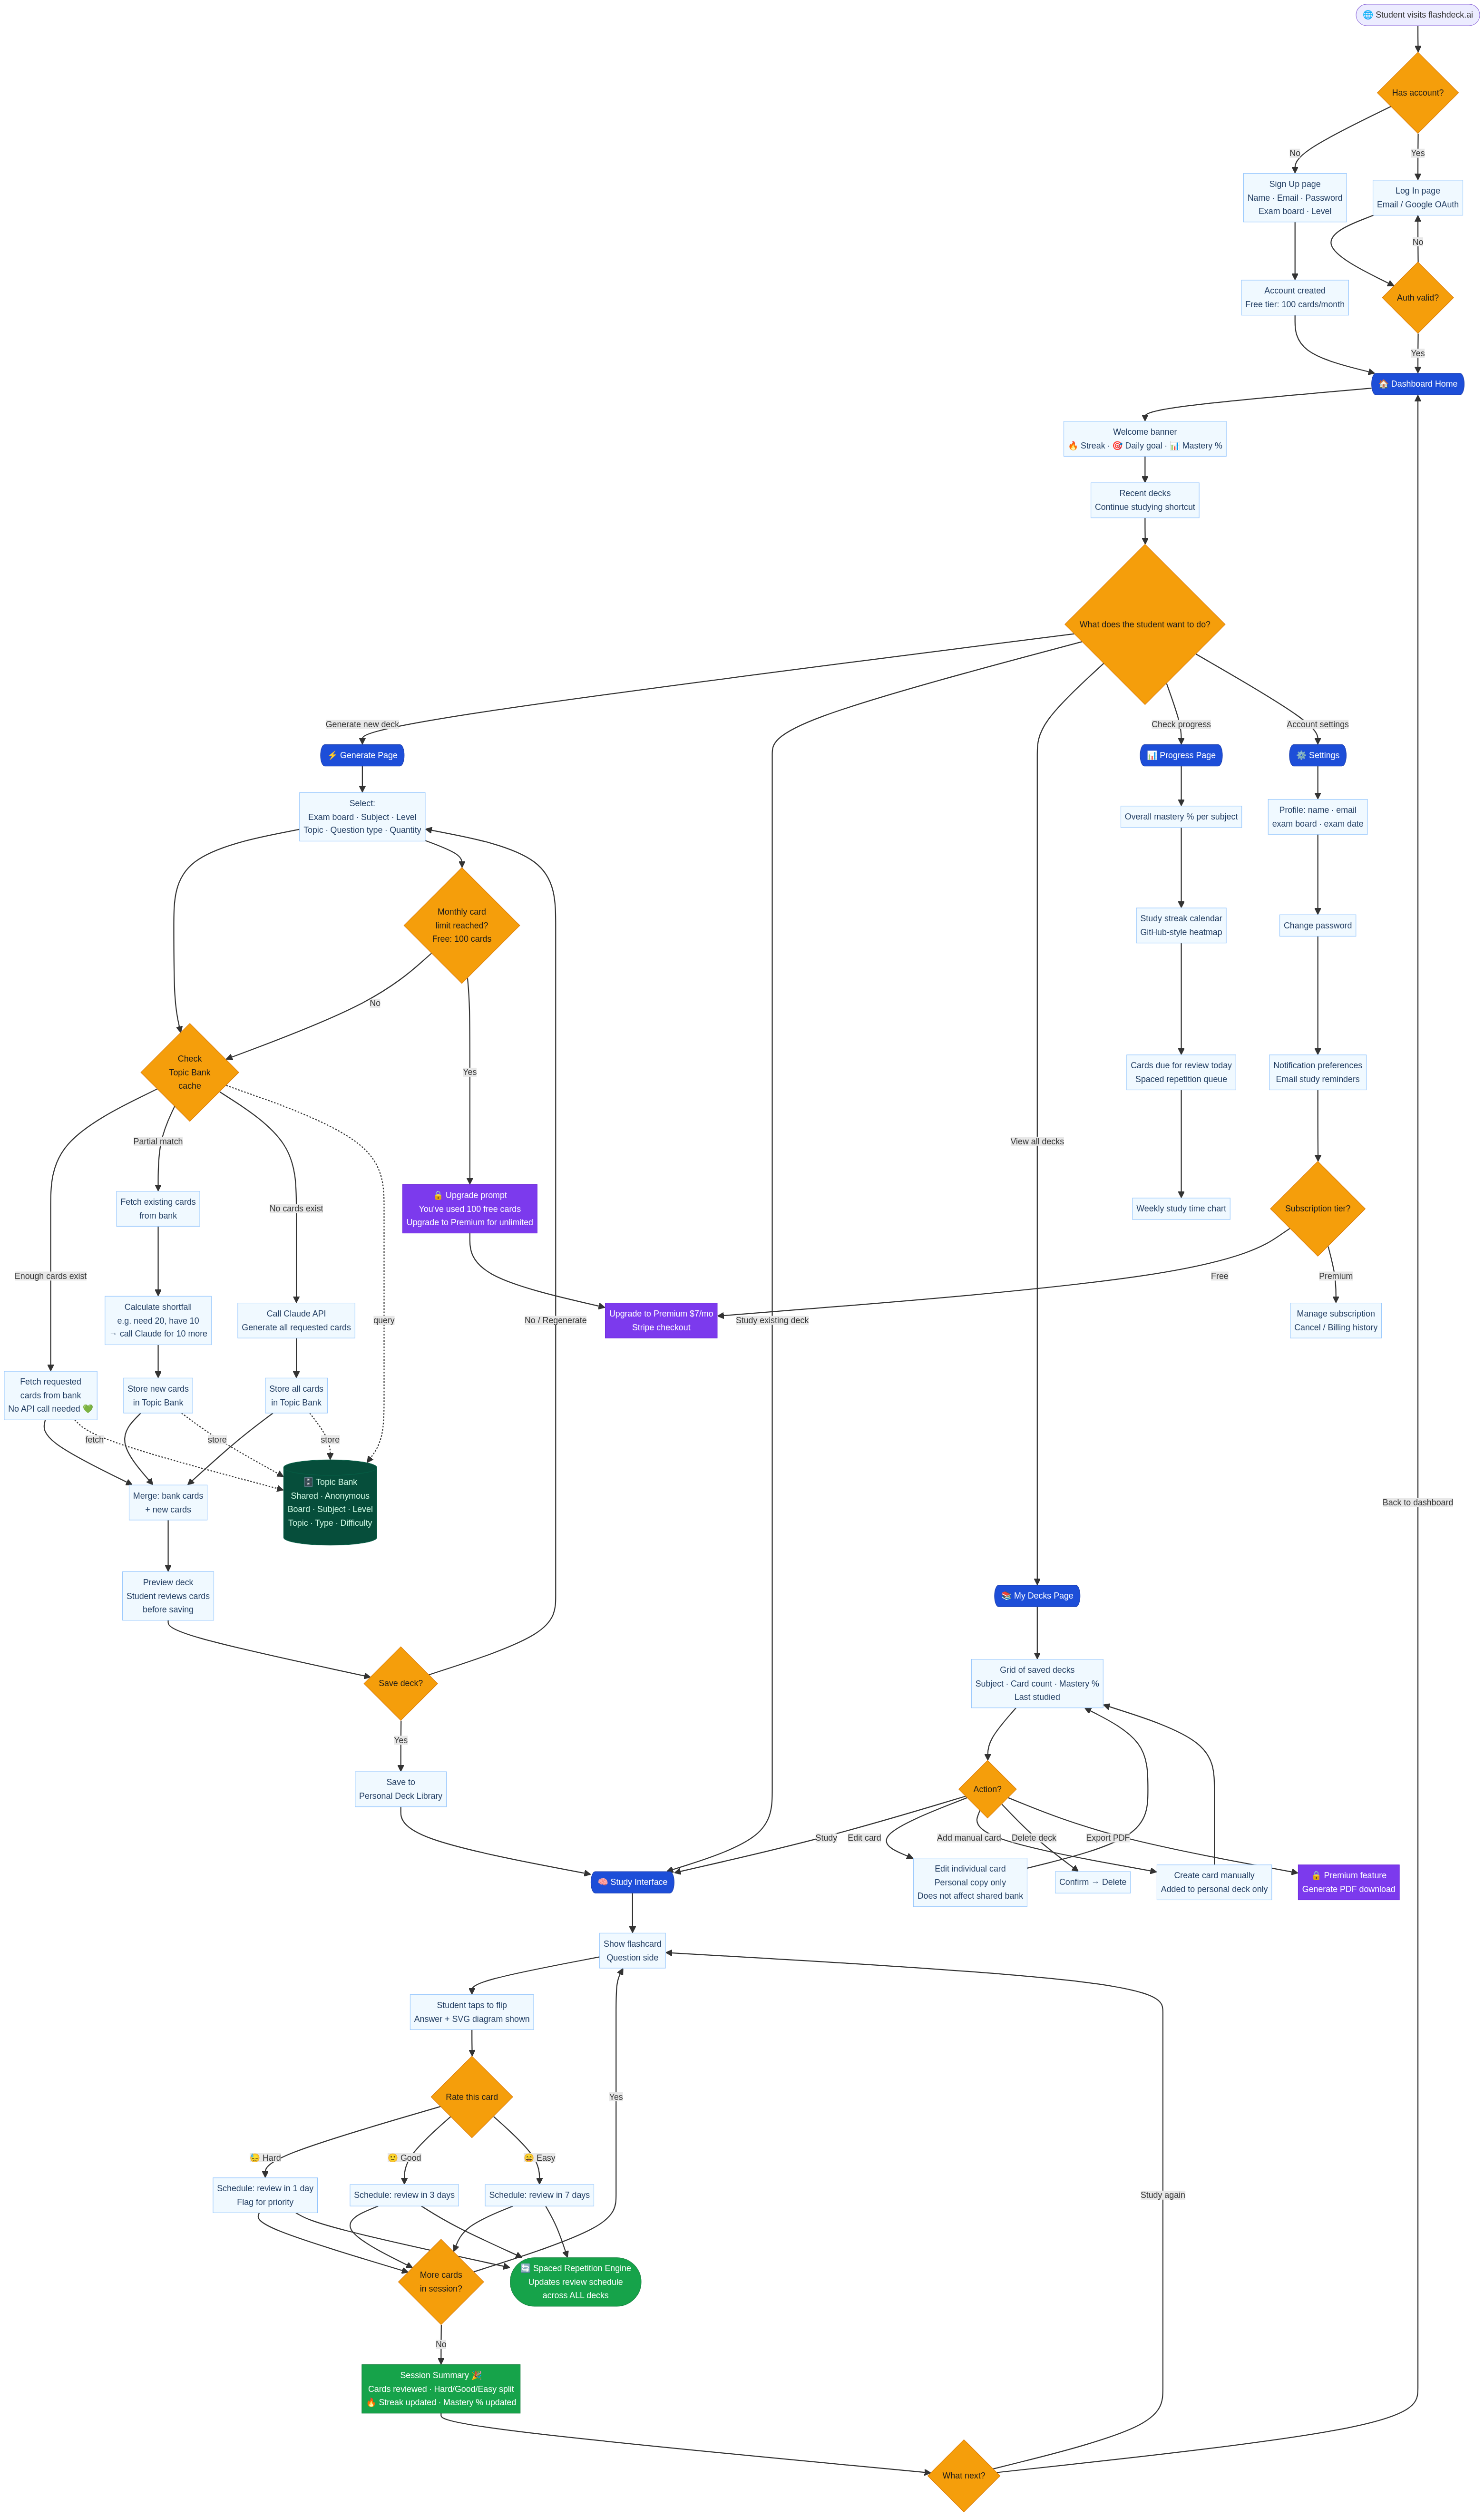
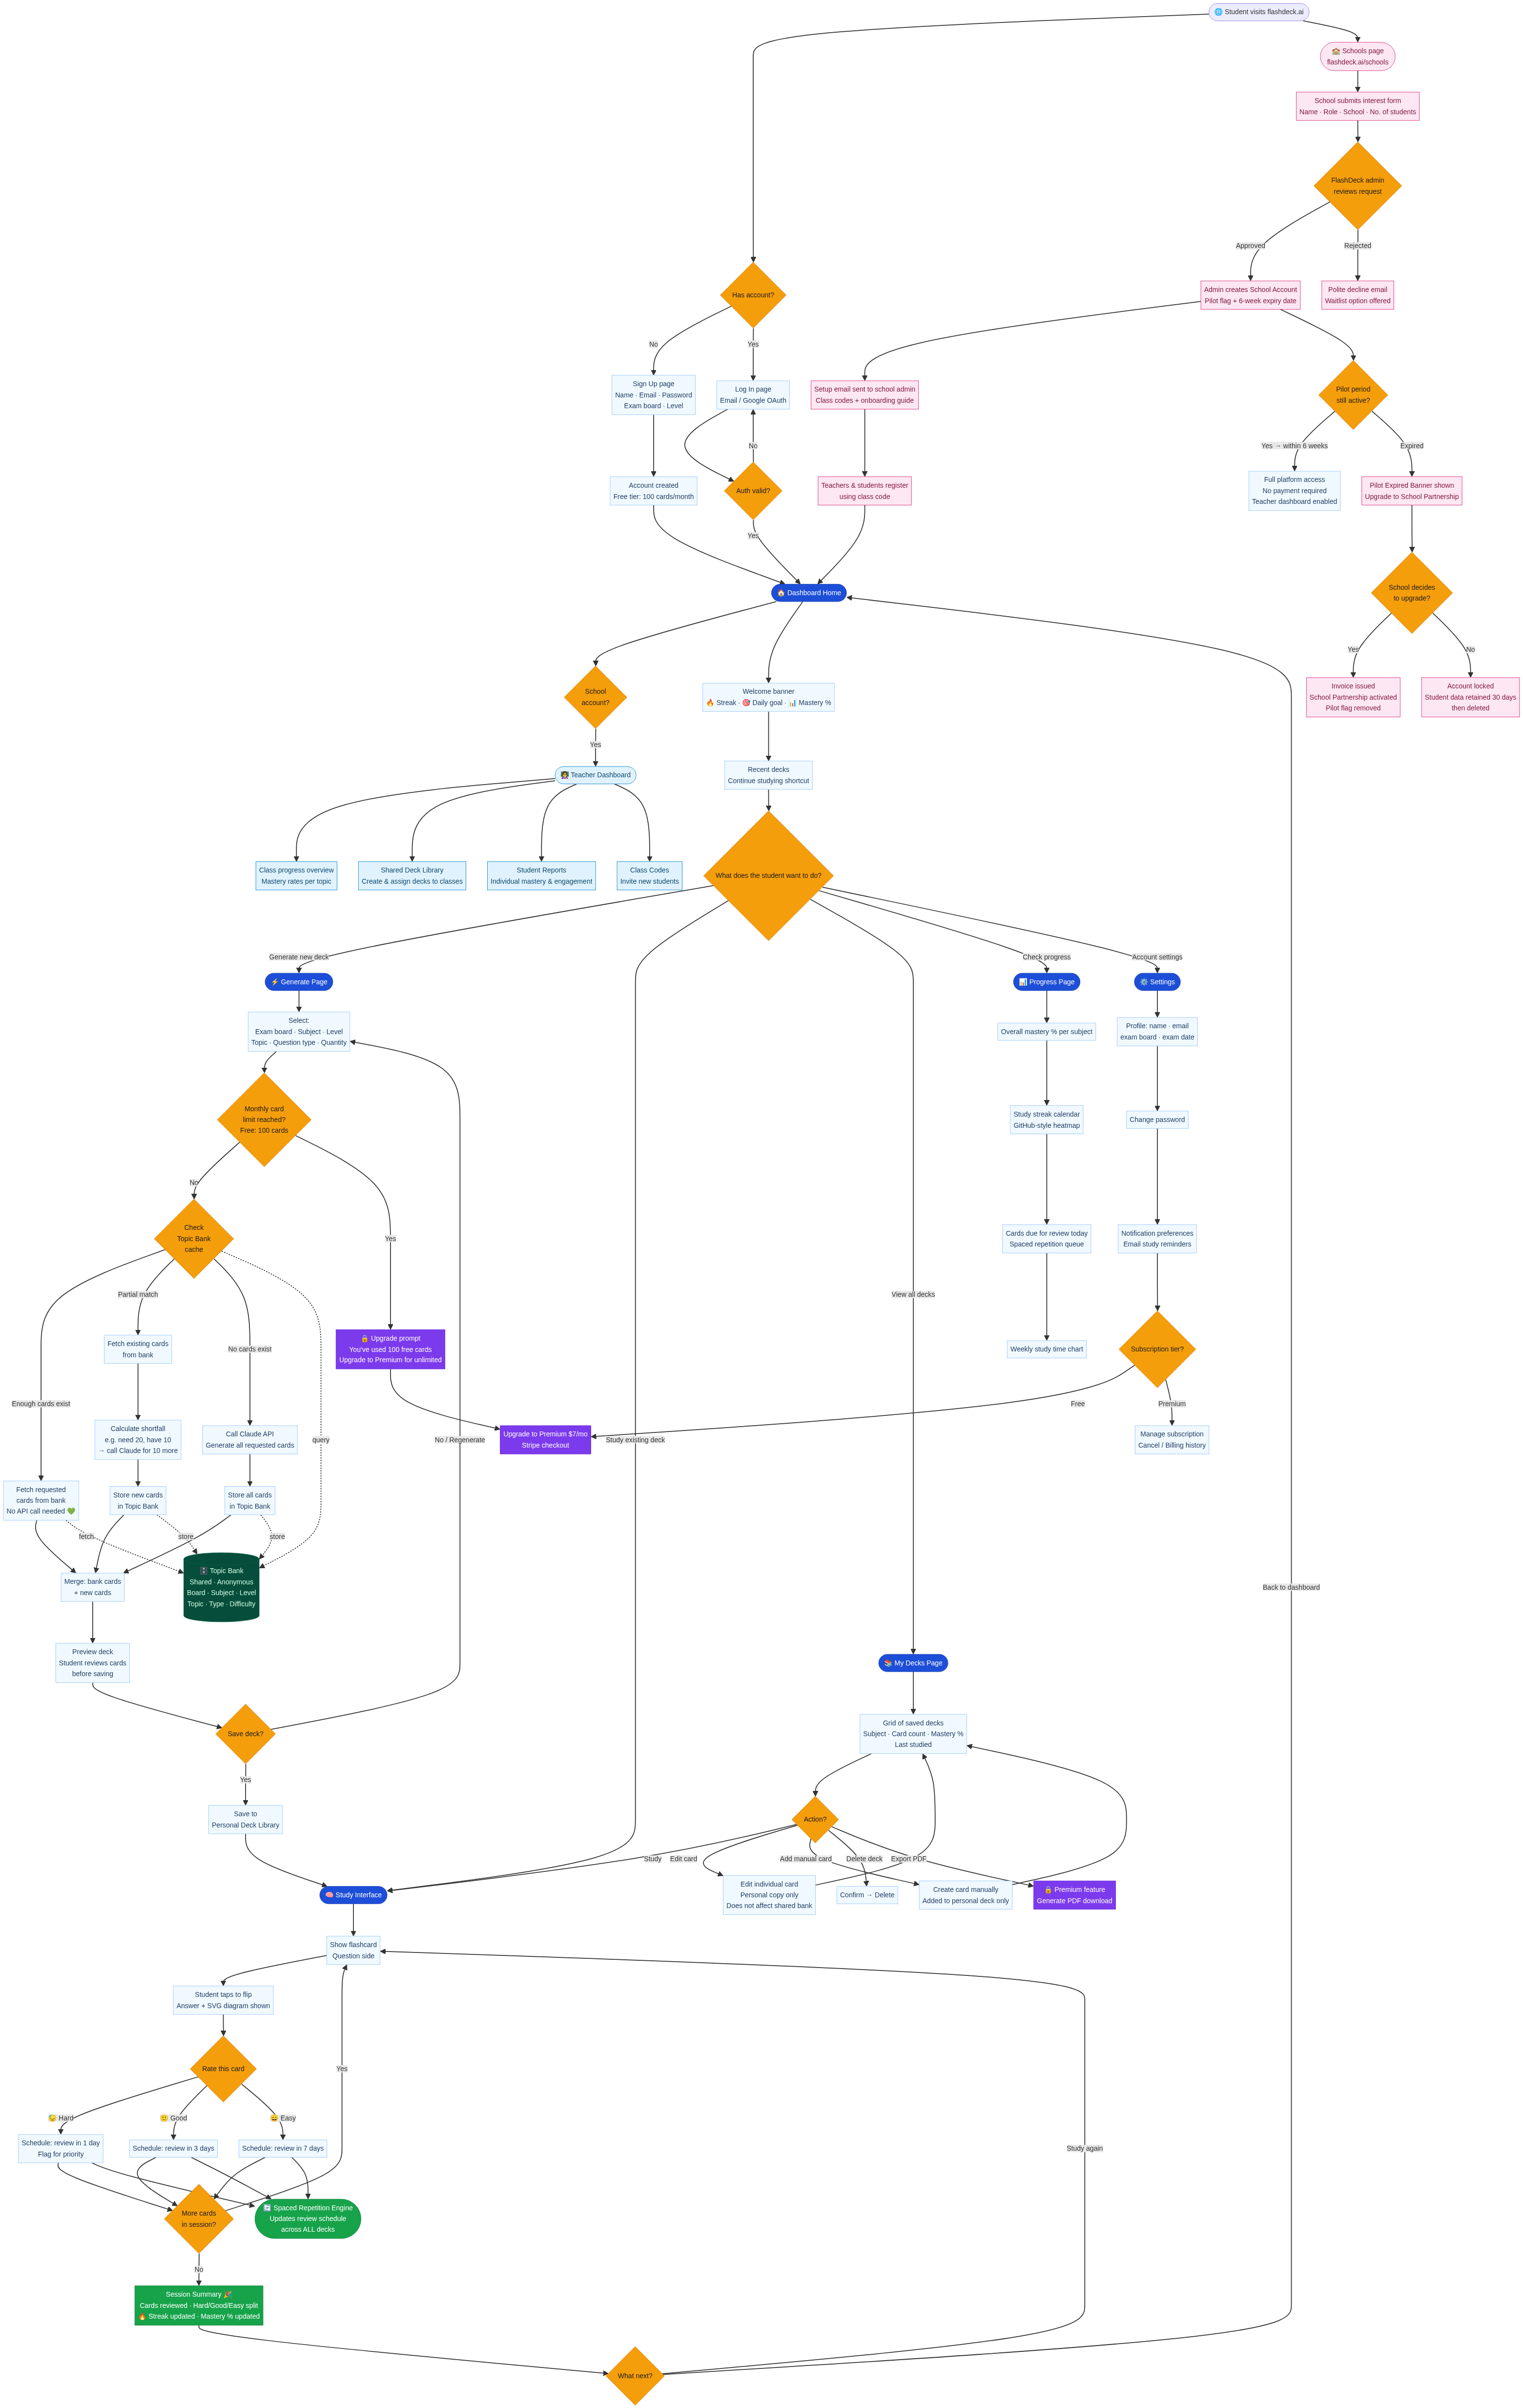
Update flowchart with school pilot flow + add master task list

diff --git a/FLASHDECK_TASK_LIST.md b/FLASHDECK_TASK_LIST.md
@@ -1,0 +1,197 @@
+# FlashDeck.AI — Master Task List
+
+> Last updated: May 2026  
+> Legend: ✅ Done · 🔄 In Progress · ⬜ To Do · 🔒 Blocked (dependency)
+
+---
+
+## 1. Business & Strategy
+
+| # | Task | Status | Notes |
+|---|---|---|---|
+| 1.1 | Business case document | ✅ Done | Pitched to Cutlass Group (Humayun Shahzad) |
+| 1.2 | Technical specification document | ✅ Done | Next.js + Supabase + Claude + Stripe stack |
+| 1.3 | Business plan V3 | ✅ Done | Earlier version; superseded by business case |
+| 1.4 | Claude API cost research | ✅ Done | Haiku confirmed as best cost/quality model |
+| 1.5 | School pricing research | ✅ Done | Benchmarked vs Quizlet, Seneca, Tassomai |
+| 1.6 | School pitch deck | ✅ Done | 10-slide deck, dual £/$ pricing, pilot offer |
+| 1.7 | Define school pilot programme terms | ⬜ To Do | Duration, eligibility, what counts as success |
+| 1.8 | Define school partnership contract | ⬜ To Do | Legal agreement for paid school licences |
+| 1.9 | Identify first 10 target schools | ⬜ To Do | UK, Pakistan, Nigeria, Middle East |
+| 1.10 | Investor / partner update for Cutlass Group | ⬜ To Do | Progress update once MVP is live |
+
+---
+
+## 2. Infrastructure & DevOps
+
+| # | Task | Status | Notes |
+|---|---|---|---|
+| 2.1 | Domain registration — flashdeck.ai | ✅ Done | Registered via Name.com |
+| 2.2 | DNS configuration at Name.com | ✅ Done | A record + CNAME pointing to Vercel |
+| 2.3 | GitHub account — FlashdeckAI | ✅ Done | github.com/FlashdeckAI |
+| 2.4 | GitHub repository — flashdeck-ai | ✅ Done | Private repo, connected to Vercel |
+| 2.5 | Vercel account setup | ✅ Done | Connected to GitHub for auto-deploy |
+| 2.6 | Vercel deployment — flashdeck-ai | ✅ Done | Auto-deploys on every GitHub push |
+| 2.7 | Custom domain connected — flashdeck.ai | ✅ Done | Live at https://www.flashdeck.ai |
+| 2.8 | SSL certificate | ✅ Done | Auto-provisioned by Vercel |
+| 2.9 | Supabase project setup | ⬜ To Do | Create project, get API keys |
+| 2.10 | Supabase database schema | ⬜ To Do | Users, decks, cards, topic bank, schools tables |
+| 2.11 | Anthropic (Claude) API account | 🔄 In Progress | Subscription pending — due tomorrow |
+| 2.12 | Stripe account setup | ⬜ To Do | For $7/month individual + school licences |
+| 2.13 | Environment variables in Vercel | 🔒 Blocked | Needs Supabase + Stripe + Claude keys first |
+| 2.14 | Email provider setup (transactional) | ⬜ To Do | For verification, reminders, pilot invites (Resend or SendGrid) |
+
+---
+
+## 3. Marketing Website (flashdeck.ai)
+
+| # | Task | Status | Notes |
+|---|---|---|---|
+| 3.1 | Landing page — full design & build | ✅ Done | 14 sections, fully responsive |
+| 3.2 | Hero carousel (3 images) | ✅ Done | Auto-rotating, dot indicators |
+| 3.3 | Interactive demo section | ✅ Done | Pre-built card data for 4 subjects |
+| 3.4 | Pricing section (monthly/annual toggle) | ✅ Done | Free / Premium / School tiers |
+| 3.5 | Audience panels (UK, IGCSE, Teachers) | ✅ Done | Product mockup images, corrected copy |
+| 3.6 | Testimonials section | ✅ Done | 2 real + 1 placeholder |
+| 3.7 | FAQ section | ✅ Done | 6 accordion items |
+| 3.8 | Sustainability section | ✅ Done | Eco stats and pledge |
+| 3.9 | Log In page | ✅ Done | Email + Google OAuth UI, validation |
+| 3.10 | Sign Up page | ✅ Done | 4 exam boards, password strength meter |
+| 3.11 | Schools landing page (/schools) | ⬜ To Do | Pilot interest form, school-specific pitch |
+| 3.12 | Blog / SEO content | ⬜ To Do | Post-MVP — drives organic student traffic |
+| 3.13 | Cookie consent banner | ⬜ To Do | Required for GDPR compliance |
+| 3.14 | Privacy Policy page | ⬜ To Do | Required before public launch |
+| 3.15 | Terms of Service page | ⬜ To Do | Required before public launch |
+
+---
+
+## 4. Application — Authentication
+
+| # | Task | Status | Notes |
+|---|---|---|---|
+| 4.1 | Supabase email/password sign-up | ⬜ To Do | Wire up Sign Up page to Supabase |
+| 4.2 | Email verification flow | ⬜ To Do | Confirmation email + redirect |
+| 4.3 | Google OAuth sign-in | ⬜ To Do | Supabase Google provider config |
+| 4.4 | Log In flow | ⬜ To Do | Wire up Log In page to Supabase |
+| 4.5 | Forgot password / reset flow | ⬜ To Do | Email reset link via Supabase |
+| 4.6 | Session persistence (30-day) | ⬜ To Do | "Keep me logged in" checkbox |
+| 4.7 | Protected routes (redirect if not logged in) | ⬜ To Do | Dashboard, Generate, Study all require auth |
+| 4.8 | School class code registration | ⬜ To Do | Students join school account via code |
+
+---
+
+## 5. Application — Dashboard & Core UI
+
+| # | Task | Status | Notes |
+|---|---|---|---|
+| 5.1 | Navigation shell (sidebar + top bar) | ⬜ To Do | Persistent across all logged-in pages |
+| 5.2 | Dashboard home page | ⬜ To Do | Welcome, streak, stats, recent decks, daily goal |
+| 5.3 | Generate deck page | ⬜ To Do | Board / subject / level / topic / type / quantity selectors |
+| 5.4 | My Decks page | ⬜ To Do | Grid of saved decks, mastery %, last studied |
+| 5.5 | Deck viewer / preview | ⬜ To Do | Review cards before saving |
+| 5.6 | Study interface | ⬜ To Do | Flip card, Hard/Good/Easy rating |
+| 5.7 | Session summary screen | ⬜ To Do | Score, streak update, mastery % |
+| 5.8 | Progress page | ⬜ To Do | Heatmap, subject breakdown, mastery rings |
+| 5.9 | Settings page | ⬜ To Do | Profile, password, notifications, subscription |
+| 5.10 | Mobile responsive layout | ⬜ To Do | Bottom tab bar on mobile |
+
+---
+
+## 6. Application — AI & Topic Bank
+
+| # | Task | Status | Notes |
+|---|---|---|---|
+| 6.1 | Claude API integration | 🔒 Blocked | Needs API key (due tomorrow) |
+| 6.2 | Prompt engineering for flashcard generation | ⬜ To Do | Per question type: definition, T/F, short answer, diagram, MCQ, calculation |
+| 6.3 | Topic Bank database table | ⬜ To Do | Board · Subject · Level · Topic · Type · Cards |
+| 6.4 | Cache-check logic (query Topic Bank first) | ⬜ To Do | Return existing cards if enough exist |
+| 6.5 | Top-up logic (partial cache hit) | ⬜ To Do | Generate only the shortfall, merge with cached |
+| 6.6 | Store new cards in Topic Bank | ⬜ To Do | Every new generation adds to shared pool |
+| 6.7 | SVG diagram generation for science | ⬜ To Do | Cell biology, circuits, force diagrams, molecules |
+| 6.8 | Question type selector in Generate UI | ⬜ To Do | Definition · True/False · Short Answer · Diagram · MCQ · Calculation |
+
+---
+
+## 7. Application — Spaced Repetition
+
+| # | Task | Status | Notes |
+|---|---|---|---|
+| 7.1 | Card rating system (Hard / Good / Easy) | ⬜ To Do | Stored per card per user |
+| 7.2 | Review schedule calculation | ⬜ To Do | Hard=1 day, Good=3 days, Easy=7 days (SM-2 algorithm) |
+| 7.3 | Due-today queue | ⬜ To Do | Surface cards due for review on dashboard |
+| 7.4 | Exam-date aware scheduling | ⬜ To Do | Compress schedule as exam date approaches |
+| 7.5 | Mastery % calculation per topic | ⬜ To Do | Based on Easy ratings over time |
+
+---
+
+## 8. Application — Monetisation
+
+| # | Task | Status | Notes |
+|---|---|---|---|
+| 8.1 | Free tier enforcement (100 cards/month) | ⬜ To Do | Counter in Supabase, checked on generate |
+| 8.2 | Stripe individual subscription ($7/month) | ⬜ To Do | Checkout, webhook, subscription status |
+| 8.3 | Premium feature gates (PDF export, unlimited) | ⬜ To Do | Check subscription status before allowing |
+| 8.4 | Annual discount (e.g. 2 months free) | ⬜ To Do | Toggle on pricing page already built |
+| 8.5 | School pilot account type | ⬜ To Do | Pilot flag + expiry date in Supabase |
+| 8.6 | School pilot interest form (/schools) | ⬜ To Do | Collects school details, triggers admin email |
+| 8.7 | Admin panel — approve/reject pilot requests | ⬜ To Do | Simple admin UI for Zulfi to manage pilots |
+| 8.8 | Pilot expiry flow | ⬜ To Do | Banner shown, account locked after grace period |
+| 8.9 | School partnership upgrade flow | ⬜ To Do | Invoice generation or Stripe school licence |
+| 8.10 | School licence tiers (Starter/Growth/Whole School) | ⬜ To Do | As per pitch deck pricing |
+
+---
+
+## 9. Application — Teacher & School Features
+
+| # | Task | Status | Notes |
+|---|---|---|---|
+| 9.1 | Teacher dashboard | ⬜ To Do | Class progress, mastery rates, engagement |
+| 9.2 | Shared deck library | ⬜ To Do | Teachers create and assign decks to classes |
+| 9.3 | Student reports | ⬜ To Do | Individual mastery per topic |
+| 9.4 | Class code system | ⬜ To Do | Generate codes, students join class |
+| 9.5 | Multi-teacher support per school | ⬜ To Do | Growth and Whole School tiers |
+
+---
+
+## 10. Compliance & Legal
+
+| # | Task | Status | Notes |
+|---|---|---|---|
+| 10.1 | Privacy Policy | ⬜ To Do | UK GDPR compliant, covers student data |
+| 10.2 | Terms of Service | ⬜ To Do | User agreement, acceptable use |
+| 10.3 | Cookie Policy + consent banner | ⬜ To Do | Required for EU/UK visitors |
+| 10.4 | COPPA / GDPR-K compliance (under-13s) | ⬜ To Do | Age gate or parental consent for younger students |
+| 10.5 | Data retention policy | ⬜ To Do | How long student data is kept |
+| 10.6 | School data processing agreement (DPA) | ⬜ To Do | Required by UK schools before signing |
+
+---
+
+## 11. Testing & Launch
+
+| # | Task | Status | Notes |
+|---|---|---|---|
+| 11.1 | Internal testing (Zulfi + team) | ⬜ To Do | Full user journey end-to-end |
+| 11.2 | Beta invite — 10–20 students | ⬜ To Do | Gather real usage feedback |
+| 11.3 | School pilot — first 2–3 schools | ⬜ To Do | Target post-exam season (end of June) |
+| 11.4 | Performance testing | ⬜ To Do | Load test Claude API + Supabase queries |
+| 11.5 | Cross-browser / cross-device testing | ⬜ To Do | Chrome, Safari, Firefox; iOS, Android |
+| 11.6 | Public launch | ⬜ To Do | Announce on LinkedIn, ProductHunt, etc. |
+
+---
+
+## Summary
+
+| Category | Done | In Progress | To Do | Total |
+|---|---|---|---|---|
+| Business & Strategy | 6 | 0 | 4 | 10 |
+| Infrastructure & DevOps | 8 | 1 | 5 | 14 |
+| Marketing Website | 11 | 0 | 4 | 15 |
+| Authentication | 0 | 0 | 8 | 8 |
+| Dashboard & Core UI | 0 | 0 | 10 | 10 |
+| AI & Topic Bank | 0 | 0 | 8 | 8 |
+| Spaced Repetition | 0 | 0 | 5 | 5 |
+| Monetisation | 0 | 0 | 10 | 10 |
+| Teacher & School Features | 0 | 0 | 5 | 5 |
+| Compliance & Legal | 0 | 0 | 6 | 6 |
+| Testing & Launch | 0 | 0 | 6 | 6 |
+| **Total** | **25** | **1** | **71** | **97** |